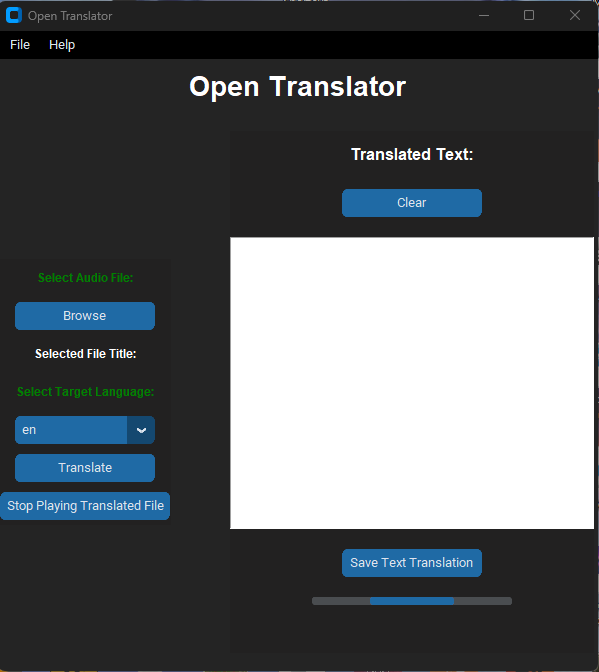
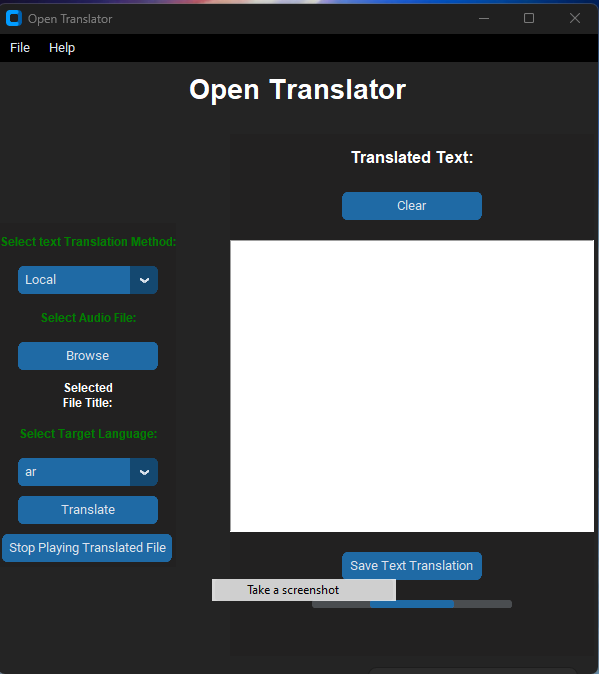
v0.3

diff --git a/OpenTranslator/translator_gui.py b/OpenTranslator/translator_gui.py
@@ -21,8 +21,7 @@ import httpx
 from CTkMenuBar import *
 import re
 import shutil
-#from bidi.algorithm import get_display  # To handle RTL text
-
+import webbrowser
 from .youtube_downloader import YouTubeDownloader
 from .ReplaceVideoAudio import AudioReplacerGUI
 from .VideoTextAdder import VideoTextAdder
@@ -45,6 +44,7 @@ class TranslatorGUI:
 		filedropdown.add_option(option="Youtube Downloader", command=YouTubeDownloader)
 		filedropdown.add_option(option="Replace Audio in Video", command=AudioReplacerGUI)
 		filedropdown.add_option(option="Video Text Adder", command=VideoTextAdder)
+		filedropdown.add_option(option="PyTranscriber", command=self.PyTranscriber)
 		filedropdown.add_option(option="Exit", command=master.destroy)
 
 		helpdropdown = CustomDropdownMenu(widget=self.help, width=50)
@@ -62,6 +62,16 @@ class TranslatorGUI:
 		pack_frame = Frame(master, bg="#222121")
 		pack_frame.pack(side="left", padx=2)
 		
+		self.label_target_TextTranslationOption = customtkinter.CTkLabel(pack_frame, text="Select text Translation Method:", font=("Arial", 12, "bold"),text_color="green")
+		self.label_target_TextTranslationOption.pack(pady=5)
+
+		TextTranslationOption = ["Local", "Online"]
+		
+		self.stringvarTextTranslationOption = customtkinter.StringVar()
+		self.target_TextTranslationOption_dropdown = customtkinter.CTkOptionMenu(pack_frame, variable=self.stringvarTextTranslationOption,values=TextTranslationOption)
+		self.target_TextTranslationOption_dropdown.pack(pady=5)
+		self.target_TextTranslationOption_dropdown.set(TextTranslationOption[0])
+
 		self.audio_path = ""
 		
 		self.label_input = customtkinter.CTkLabel(pack_frame, text="Select Audio File:", font=("Arial", 12, "bold"),text_color="green")
@@ -84,7 +94,7 @@ class TranslatorGUI:
 		self.stringvarlanguage = customtkinter.StringVar()
 		self.target_language_dropdown = customtkinter.CTkOptionMenu(pack_frame, variable=self.stringvarlanguage,values=languages)
 		self.target_language_dropdown.pack(pady=5)
-		self.target_language_dropdown.set(languages[0])
+		self.target_language_dropdown.set(languages[7])
 
 		self.translate_button = customtkinter.CTkButton(pack_frame, text="Translate", command=self.translate)
 		self.translate_button.pack(pady=5)
@@ -102,8 +112,6 @@ class TranslatorGUI:
 		self.clear_button = customtkinter.CTkButton(grid_frame, text="Clear", command=self.clear_text)
 		self.clear_button.grid(row=6, column=0, columnspan=1, pady=10)
 		
-		#self.text_translated = customtkinter.CTkTextbox(grid_frame, height=200, width=400, wrap = 'word')
-		#self.text_translated.grid(row=7, column=0, columnspan=2, pady=10)
 		self.text_translated = tk.Text(grid_frame, height=18, width=45, wrap = 'word')
 		self.text_translated.grid(row=7, column=0, columnspan=1, pady=10)
 
@@ -148,7 +156,17 @@ class TranslatorGUI:
 			
 			print(f"Conversion successful: {output_audio}")
 			messagebox.showinfo("Info", f"Conversion successful: {output_audio}")
-		
+	def PyTranscriber(self):
+		pytranscriber_path = r'C:\Program Files (x86)\pyTranscriber\pyTranscriber.exe'
+		# Check if pyTranscriber exists
+		if os.path.exists(pytranscriber_path):
+			subprocess.run([pytranscriber_path])
+		else:
+			# Show message box to install pyTranscriber
+			messagebox.showinfo("PyTranscriber Not Found",
+			"Please install pyTranscriber from: https://pytranscriber.github.io/download/")	
+			webbrowser.open_new(r'https://pytranscriber.github.io/download/')
+
 	def Convert_Audio_Files(self):
 		def is_mp3(file_path):
 			try:
@@ -236,7 +254,7 @@ class TranslatorGUI:
 				try:
 					translation_result = self.translator_instance.process_audio_chunk(chunk_output_path,
 																 self.target_language_dropdown.get(),
-																 chunk_idx, output_path)											 
+																 chunk_idx, output_path,self.target_TextTranslationOption_dropdown.get())											 
 				except Exception as e:
 					print(f"{e}")
 					self.progress_bar.stop()

diff --git a/OpenTranslator/audio_translator.py b/OpenTranslator/audio_translator.py
@@ -15,7 +15,8 @@ import re
 from tkinter import StringVar
 import pygame
 from .sentence_translator import SentenceTranslator
-
+from transformers import MBartForConditionalGeneration, MBart50TokenizerFast
+import sentencepiece as spm
 from TTS.api import TTS
 
 class CustomTranslator:
@@ -23,6 +24,7 @@ class CustomTranslator:
         self.processor = None
         self.model = None
         self.tts = None
+        tt = None
         self.target_language = StringVar()
         self.target_language.set("en")  # Default target language
 
@@ -46,8 +48,11 @@ class CustomTranslator:
             self.model = None
             del self.tts
             self.tts = None
+            del tt
+            tt = None
+
         
-    def process_audio_chunk(self, input_path, target_language, chunk_idx, output_path):
+    def process_audio_chunk(self, input_path, target_language, chunk_idx, output_path, Target_Text_Translation_Option):
         try:
             self.load_model()
 
@@ -101,7 +106,8 @@ class CustomTranslator:
             Translation_chunk_output_path = f"{output_path}_Translation_chunk{chunk_idx + 1}.wav"
             
             # Use SpeechRecognizer for translation (modify as needed)
-            if target_language != "en":
+            if target_language != "en" and Target_Text_Translation_Option == 'Online':
+                print("Online text Translation started ..")
                 translator = SentenceTranslator(src="en", dst=target_language)
                 translated_text = translator(transcription)
                 
@@ -110,7 +116,40 @@ class CustomTranslator:
 
                 logging.info(f"Processing successful. Translated text: {translated_text}")
                 return translated_text
-            else:
+            if Target_Text_Translation_Option == 'Local':
+                print("Local text Translation started ..")
+                tt = MBartForConditionalGeneration.from_pretrained("SnypzZz/Llama2-13b-Language-translate")
+                tokenizer = MBart50TokenizerFast.from_pretrained("SnypzZz/Llama2-13b-Language-translate", src_lang="en_XX")
+                model_inputs = tokenizer(transcription, return_tensors="pt")
+                
+                # Map target languages to model language codes
+                language_mapping = {
+                "en": "en_XX",
+                "es": "es_XX",
+                "fr": "fr_XX",
+                "de": "de_DE",
+                "ja": "ja_XX",
+                "ko": "ko_KR",
+                "tr": "tr_TR",
+                "ar": "ar_AR",
+                "ru": "ru_RU",
+                "he": "he_IL",
+                "hi": "hi_IN",
+                "it": "it_IT",
+                "pt": "pt_PT",
+                }
+
+                # Set the target language based on the mapping
+                model_Target_language = language_mapping.get(target_language, "en_XX")       
+                generated_tokens = tt.generate(**model_inputs,forced_bos_token_id=tokenizer.lang_code_to_id[model_Target_language])
+                translated_text = tokenizer.batch_decode(generated_tokens, skip_special_tokens=True)
+                translated_text = ", ".join(translated_text)
+                # Generate final audio output from translated text
+                self.generate_audio(translated_text, Translation_chunk_output_path, target_language, input_path)
+                logging.info(f"Processing successful. Translated text: {translated_text}")
+                return translated_text
+
+            else:    
                 self.generate_audio(transcription, Translation_chunk_output_path, target_language, input_path)
                 
                 logging.info(f"Processing successful. Translated text: {transcription}")

diff --git a/readme.md b/readme.md
@@ -1,4 +1,4 @@
-# Open Translator - Speech To Speech and Speech to text Translator - Online mode (No api keys are needed )
+# Open Translator - Speech To Speech and Speech to text Translator - Online mode (No api keys are needed ) Or Local only mode
 
 Open Translator, Speech To Speech Translator with voice cloning and other cool features.
 
@@ -17,6 +17,7 @@ Open Translator, Speech To Speech Translator with voice cloning and other cool f
 - YouTube Downloader
 - Replace Audio in Video
 - Video Text Adder
+- PyTranscriber (shortcut)
 - Exit
 
 2- Help Menu:
@@ -100,3 +101,4 @@ This project is licensed under the [MIT License](https://opensource.org/licenses
 Special thanks to:
 [XTTS_V2](https://huggingface.co/coqui/XTTS-v2)
 [whisper](https://github.com/openai/whisper)
+[mBART-50](https://huggingface.co/SnypzZz/Llama2-13b-Language-translate)
